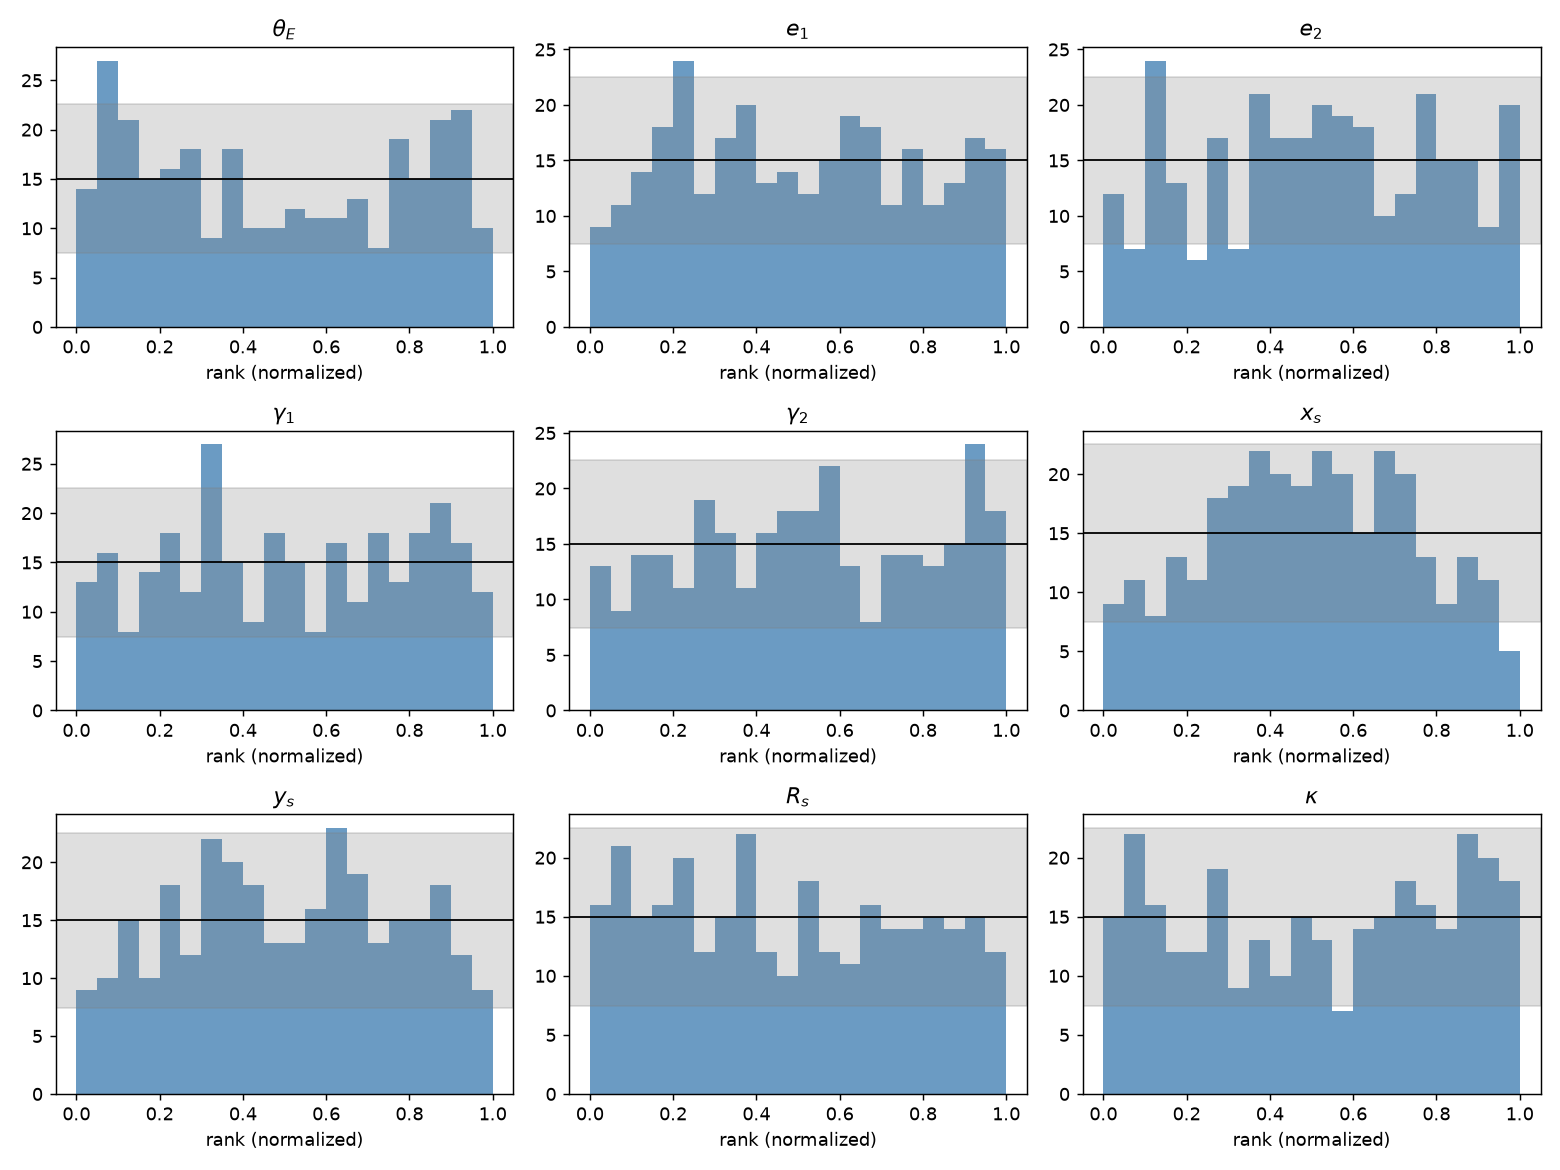
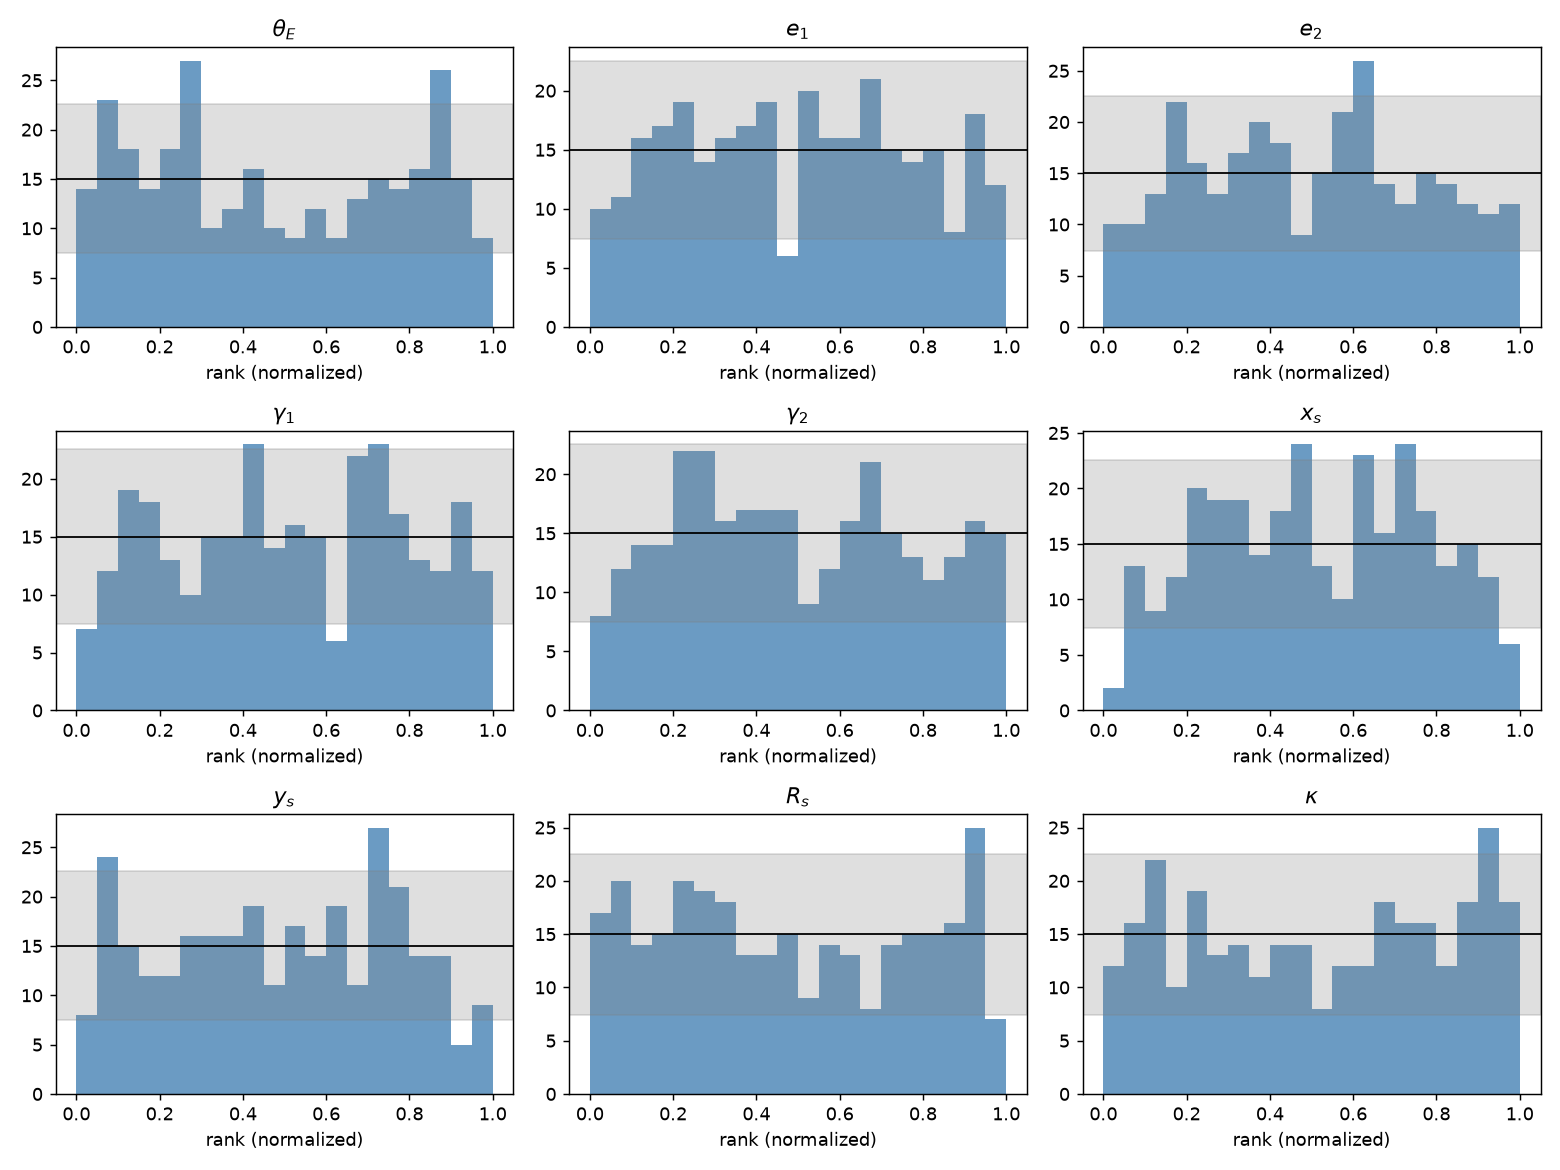
feat: 50k-sample runs for both models — full reference-style figure set
Retrained the 8-parameter and 9-parameter (kappa) models on 50,000
simulations each (~2 h/model on RTX 3060, 40 epochs, no overfitting,
final val loss -8.05 / -6.79). Recovery improves across the board
(gamma2 R^2 0.65 -> 0.80, e2 0.84 -> 0.92); mass-sheet degeneracy
sharpens (corr(kappa, theta_E) -0.93 -> -0.96, contraction +0.16).
SBC shows calibrated shear/ellipticity and mild underconfidence for
the best-constrained parameters, unchanged vs 20k (capacity-limited).

Figures: new ECDF/contraction/prior-pairs/corner-plot diagnostics for
both variants, 20k comparison figures kept for the report appendix,
obsolete demo images removed. Full numbers in RESULTS.md Runs 6-7.

diff --git a/RESULTS.md b/RESULTS.md
@@ -234,14 +234,89 @@ Only theta_E is affected by adding kappa — the degeneracy is specific to the
 
 ---
 
+## Run 6 — 8 parameters, GPU, 50k dataset (2026-07-18, overnight)
+
+**Changes vs Run 4:** N_TRAIN 20000 → 50000. Early stopping added (patience 10,
+never triggered — best epoch = 40/40). Diagnostics switched to the
+BayesFlow-native reference set: recovery (median + MAD + Pearson r), SBC
+rank-ECDF difference with 95% bands, z-score vs contraction, prior pairplot,
+fiducial-system posterior-vs-prior corner plot.
+**Hardware:** RTX 3060. Generation: 50k+2k+300 in ~1 min (15 workers).
+Training: **123 min** (118 ms/step), 40 epochs.
+
+### Dataset SNR report
+```
+peak SNR: min=4.6  median=16.1  max=27.4    (target ~10-30 ✓)
+```
+
+### Training loss
+Epoch 1: train 8.86 / val 6.83 → Epoch 40: train −6.19 / **val −8.05** (best =
+final; monotone decrease, no overfitting; 20k run ended at val −5.87).
+
+### Recovery (300 test systems; vs Run 4 at 20k)
+| Parameter | r (50k) | R² (50k) | R² (20k) |
+|---|---|---|---|
+| theta_E | 0.999 | 1.00 | 1.00 |
+| x_s | 0.999 | 1.00 | 0.99 |
+| y_s | 0.999 | 1.00 | 0.99 |
+| R_s | 0.999 | 1.00 | 1.00 |
+| e1 | 0.970 | 0.94 | 0.89 |
+| e2 | 0.960 | 0.92 | 0.84 |
+| gamma1 | 0.928 | 0.86 | 0.80 |
+| gamma2 | 0.895 | 0.80 | 0.65 |
+
+### Calibration (SBC rank-ECDF difference, 95% simultaneous bands)
+e1/e2/gamma1/gamma2: inside the band = calibrated. theta_E/x_s/y_s/R_s: symmetric
+S-shape exiting the band (central ranks over-represented) = **mild
+underconfidence** (conservative posteriors). Same shape at 20k and 50k → it is a
+network-capacity effect, NOT a data-volume effect. Next knob if needed:
+SUMMARY_DIM / COUPLING_DEPTH, not N_TRAIN.
+
+### Fiducial inference (theta_E=1.15, q~0.85 lens, weak shear)
+All truths within ~1.5 posterior std; theta_E posterior 1.152 ± 0.008.
+
+---
+
+## Run 7 — 9 parameters (kappa), GPU, 50k dataset (2026-07-18, overnight)
+
+Same config as Run 6, `SLI_INCLUDE_KAPPA=1`. Training: **123 min**, 40 epochs,
+final val loss **−6.79**. SNR: min=2.3 median=16.6 max=27.5.
+
+### Mass-sheet degeneracy analysis (the key result)
+```
+kappa prior std           : 0.058
+kappa mean posterior std  : 0.048
+contraction               : +0.16   (kappa ~unconstrained, as theory demands)
+mean corr(kappa, theta_E) : -0.96   (vs -0.93 at 20k, -0.83 at 8k low-SNR —
+                                     posterior collapses onto the degeneracy
+                                     ridge as data quality improves)
+```
+
+### Recovery with kappa (vs Run 6 without)
+theta_E R² **0.94** vs 1.00 (degeneracy feeds uncertainty into theta_E);
+kappa R² 0.21 (posterior ≈ prior); all others essentially unchanged
+(e1 0.92, e2 0.90, gamma1 0.85, gamma2 0.80, x_s/y_s 0.99, R_s 0.98).
+
+### Fiducial inference (kappa truth 0.05)
+kappa posterior 0.082 ± 0.054 (spans most of the prior — honest); theta_E
+1.108 ± 0.065 (8× wider than without kappa: the degeneracy at work).
+
+**Figures:** full reference-style set in `figures/` (`*_kappa.png` variants).
+**Report:** rewritten in the reference-report structure → `report/report.pdf`
+(18 pages). Logs: scratchpad `logs/{gen8,train8,eval8,genk,traink,evalk}.log`.
+
+---
+
 ## Open items / next steps
 
 1. ~~Set SOURCE_AMP = 150~~ ✓ done (Run 4)
 2. ~~Raise N_TRAIN to 20000~~ ✓ done (Run 4)
 3. ~~Re-run kappa comparison at corrected SNR~~ ✓ done (Run 5)
-4. ~~Update report numbers~~ ✓ done (report/report.pdf, 9 pages)
-5. Optional: EPOCHS could be trimmed (~30) — val loss nearly flat by then; or
-   raise N_TRAIN further (50k) if even tighter calibration is wanted.
+4. ~~Raise N_TRAIN to 50000 + reference-style diagnostics + rewritten report~~
+   ✓ done (Runs 6-7, report/report.pdf 18 pages)
+5. Optional: the residual SBC underconfidence for theta_E/x_s/y_s/R_s did not
+   respond to more data — if tighter calibration is wanted, raise SUMMARY_DIM
+   (48 → 96) and/or COUPLING_DEPTH (4 → 6) and retrain.
 
 ---
 
